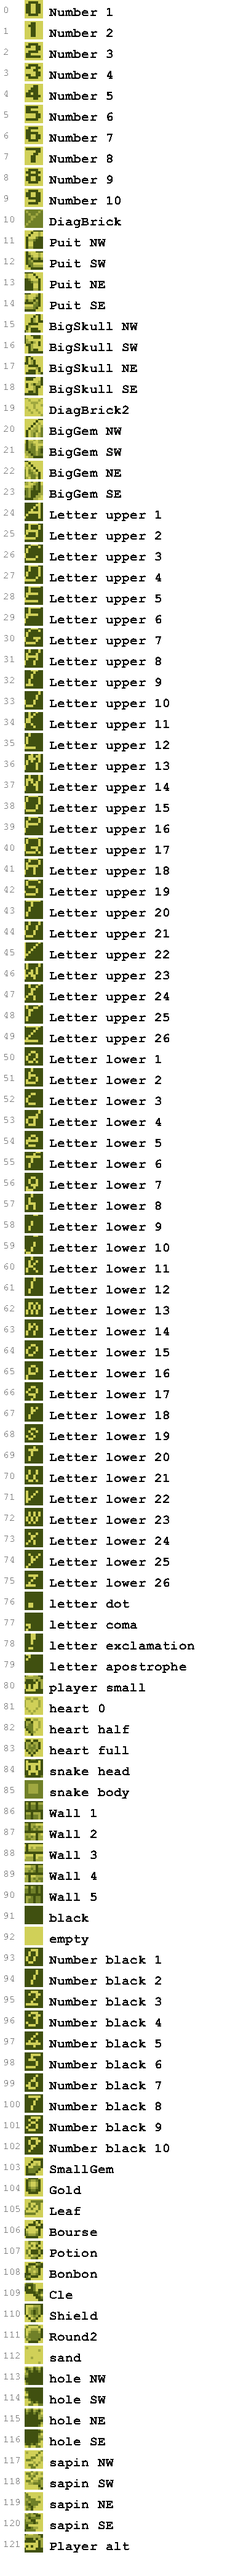
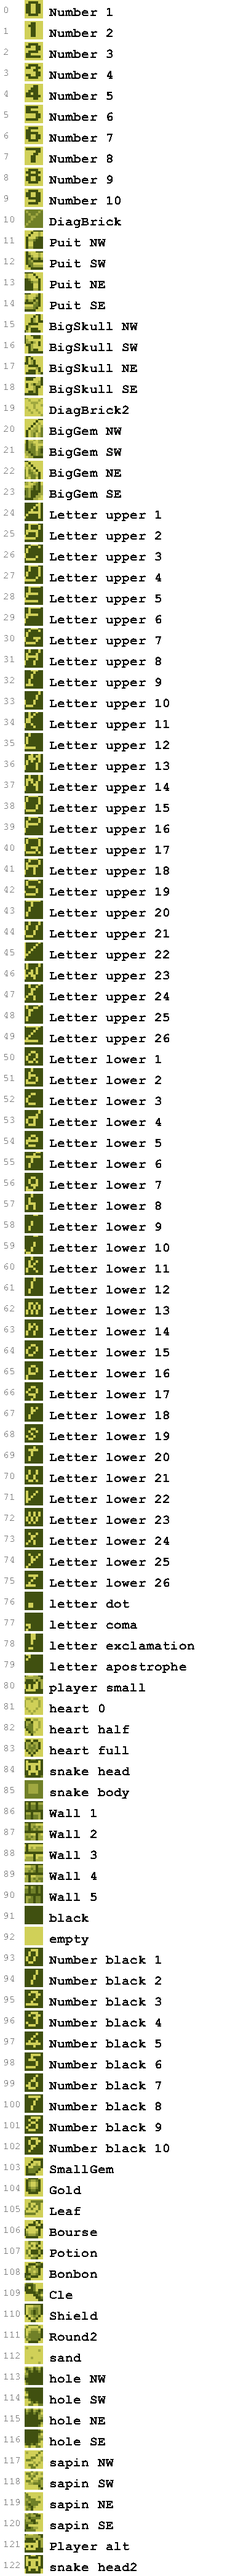
Added a better head for the snake

Changed region(s): [[0.0, 0.0, 0.75, 1.0], [0.63, 0.7464, 0.66, 0.8397], [0.42, 0.0311, 0.48, 0.0933]]

diff --git a/Games/JustASnake/my_lib01.c b/Games/JustASnake/my_lib01.c
@@ -248,6 +248,8 @@ const unsigned char my_lib01[] =
 //120: sapin SE [70dd6281-7cab-4b8f-8bb9-f2bf34f8cfe1]
 0x98,0x2C,0x9E,0x66,0xE0,0x3E,0x78,0x98,0x08,0xFC,0x40,0xC0,0x6C,0xF0,0x80,0xF8,
 //121: Player alt [d8c9761b-b05c-436b-b6f4-66665026b802]
-0xCF,0x83,0xFF,0x01,0xFF,0x74,0xFB,0xFA,0x03,0x02,0x53,0x52,0x87,0x87,0xFF,0xFF
+0xCF,0x83,0xFF,0x01,0xFF,0x74,0xFB,0xFA,0x03,0x02,0x53,0x52,0x87,0x87,0xFF,0xFF,
+//122: snake head2 [c8247cf9-48db-49d9-97bc-e5fad3712637]
+0xE7,0xE7,0xBD,0xBD,0x81,0x81,0xA5,0xA5,0xA5,0xA5,0xC3,0xC3,0x5A,0x5A,0x7E,0x7E
 };
 

diff --git a/Games/JustASnake/my_lib01.h b/Games/JustASnake/my_lib01.h
@@ -2,7 +2,7 @@
 #ifndef __my_lib01_H__
 #define __my_lib01_H__
 
-#define my_lib01_COUNT   122
+#define my_lib01_COUNT   123
 
 
 #define TILE_NUMBER_1   0
@@ -127,6 +127,7 @@
 #define TILE_SAPIN_NE   119
 #define TILE_SAPIN_SE   120
 #define TILE_PLAYER_ALT   121
+#define TILE_SNAKE_HEAD2   122
 
 
 //declared as const to save compile and execution time/space
